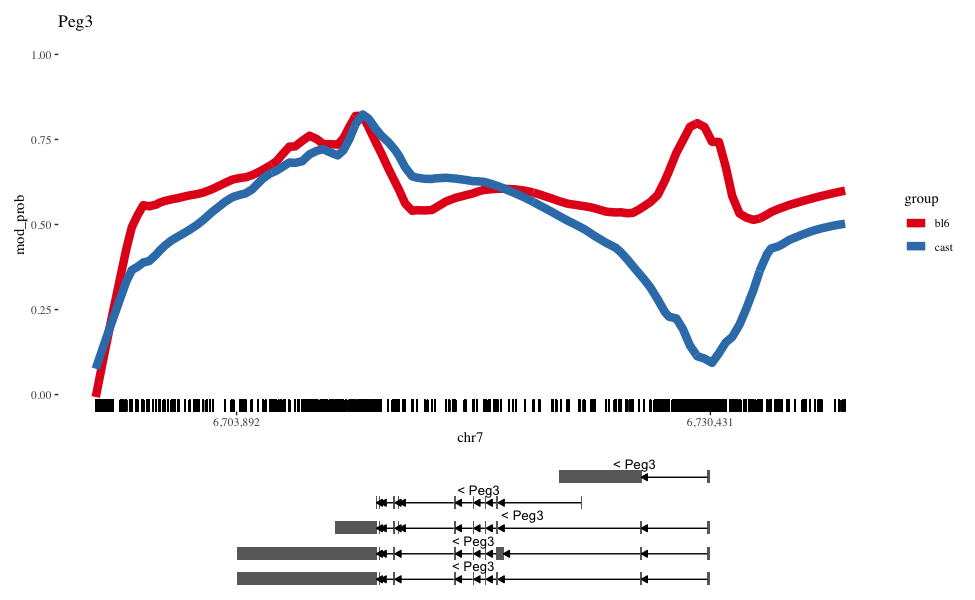
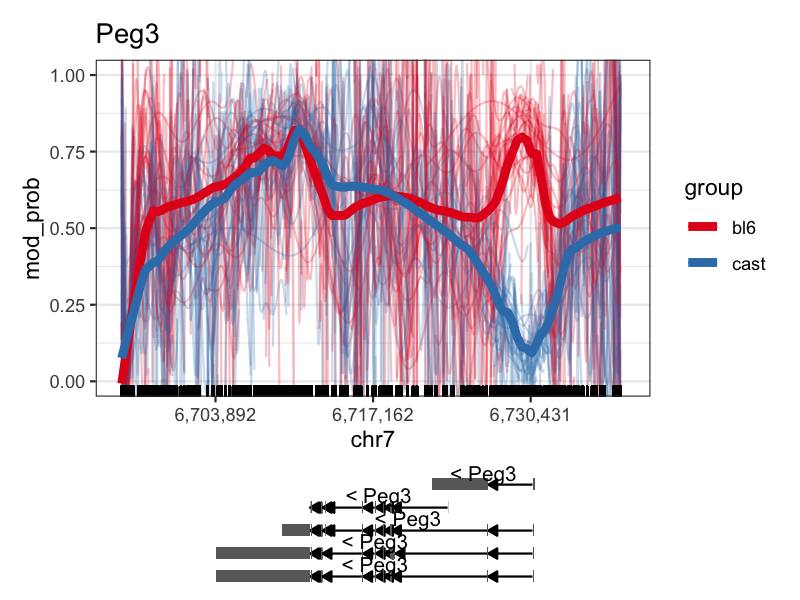
Updated README

diff --git a/README.md b/README.md
@@ -29,7 +29,7 @@ BiocManager::install(version='devel')
 BiocManager::install("NanoMethViz")
 ```
 
-## Example
+## Usage
 
 This package currently works with data from megalodon, nanopolish and f5c, to import your data please see the following vignette
 
@@ -53,9 +53,35 @@ vignette("DimensionalityReduction", package = "NanoMethViz")
 vignette("ExonAnnotations", package = "NanoMethViz")
 ```
 
-An example of the visualisation for Peg3
+## Examples
+
+### MDS Plot
+
+The MDS plot is used to visualise differences in the methylation profiles of
+multiple samples.
+
+![](img/mds.png)
+
+### Feature Aggregation
+
+The feature aggregation plot can average the methylation profiles across a set
+of features.
+
+![](img/agg_genes.png)
+
+### Spaghetti plot
+
+The spaghetti plot shows the smoothed methylation probabilities over a specific
+region, along with the methylation probabilities along individual long reads.
 
 ![](img/peg3_spaghetti.png)
+
+### Heatmap
+
+The heatmap shows methylation probabilities on individual sites along stacked
+reads.
+
+![](img/peg3_heatmap.png)
 
 ## License
 
